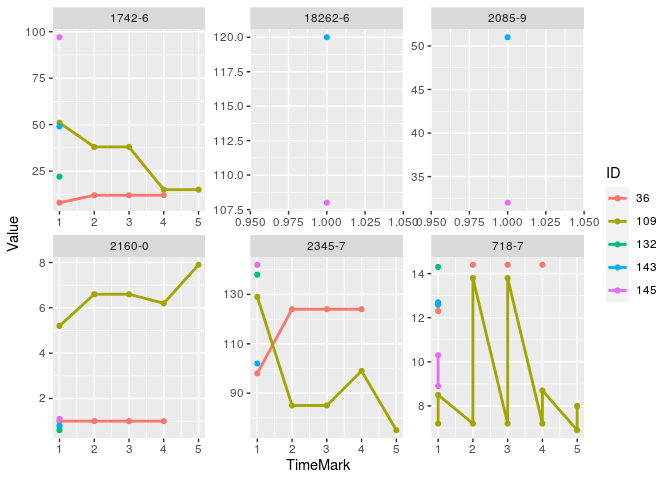
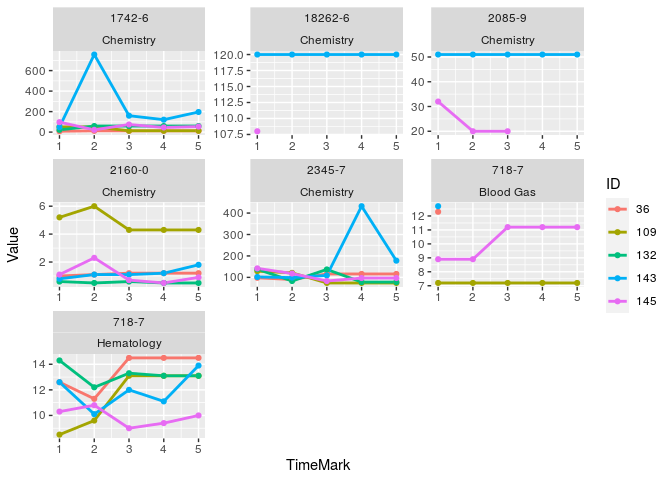
Update plot

diff --git a/README.md b/README.md
@@ -181,24 +181,24 @@ timeSeriesData <- getTimeSeriesLab(labData = loincSample,
                                    dateColName = CHARTTIME,
                                    valueColName = VALUENUM,
                                    indexDate = first,
-                                   gapDate = 360,
+                                   gapDate = 30,
                                    completeWindows = TRUE)
 head(timeSeriesData)
 ```
 
-    ##    ID  LOINC  CATEGORY Window Count Max  Min      Mean Nearest firstRecord
-    ## 1: 36 1742-6 Chemistry      1     2  12  8.0 10.000000       8  2131-04-30
-    ## 2: 36 1742-6 Chemistry      2    NA  NA   NA        NA      NA        <NA>
-    ## 3: 36 1742-6 Chemistry      3    NA  NA   NA        NA      NA        <NA>
-    ## 4: 36 1742-6 Chemistry      4     1  12 12.0 12.000000      12  2134-05-14
-    ## 5: 36 2160-0 Chemistry      1    28   2  0.7  1.217857       1  2131-04-30
-    ## 6: 36 2160-0 Chemistry      2    NA  NA   NA        NA      NA        <NA>
+    ##    ID  LOINC  CATEGORY Window Count Max Min Mean Nearest firstRecord
+    ## 1: 36 1742-6 Chemistry      1     2  12   8   10       8  2131-04-30
+    ## 2: 36 1742-6 Chemistry      2    NA  NA  NA   NA      NA        <NA>
+    ## 3: 36 1742-6 Chemistry      3    NA  NA  NA   NA      NA        <NA>
+    ## 4: 36 1742-6 Chemistry      4    NA  NA  NA   NA      NA        <NA>
+    ## 5: 36 1742-6 Chemistry      5    NA  NA  NA   NA      NA        <NA>
+    ## 6: 36 1742-6 Chemistry      6    NA  NA  NA   NA      NA        <NA>
     ##    lastRecode
     ## 1: 2131-05-17
     ## 2:       <NA>
     ## 3:       <NA>
-    ## 4: 2134-05-14
-    ## 5: 2132-02-08
+    ## 4:       <NA>
+    ## 5:       <NA>
     ## 6:       <NA>
 
 ``` r
@@ -211,18 +211,18 @@ fullTimeSeriesData <- imputeTimeSeriesLab(labData = timeSeriesData,
 head(fullTimeSeriesData)
 ```
 
-    ##    ID  LOINC  CATEGORY Window       Mean Nearest
-    ## 1: 36 1742-6 Chemistry      1 10.0000000       8
-    ## 2: 36 1742-6 Chemistry      2 12.0000000      12
-    ## 3: 36 1742-6 Chemistry      3 12.0000000      12
-    ## 4: 36 1742-6 Chemistry      4 12.0000000      12
-    ## 5: 36 2160-0 Chemistry      1  1.2178571       1
-    ## 6: 36 2160-0 Chemistry      2  0.8888889       1
+    ##    ID  LOINC  CATEGORY Window Mean Nearest
+    ## 1: 36 1742-6 Chemistry      1   10       8
+    ## 2: 36 1742-6 Chemistry      2   12      12
+    ## 3: 36 1742-6 Chemistry      3   12      12
+    ## 4: 36 1742-6 Chemistry      4   12      12
+    ## 5: 36 1742-6 Chemistry      5   12      12
+    ## 6: 36 1742-6 Chemistry      6   12      12
 
 ``` r
 timeSeriesPlot <- plotTimeSeriesLab(labData = fullTimeSeriesData, 
                                     idColName = ID, 
-                                    labItemColName = LOINC, 
+                                    labItemColName = LOINC + CATEGORY, 
                                     timeMarkColName = Window, 
                                     valueColName = Nearest, 
                                     timeStart = 1, 
@@ -243,20 +243,20 @@ wideTimeSeriesData <- wideTimeSeriesLab(labData = fullTimeSeriesData,
 head(wideTimeSeriesData)
 ```
 
-    ##     ID Window 1742-6_Chemistry 18262-6_Chemistry 2085-9_Chemistry
-    ## 1:  36      1                8                NA               NA
-    ## 2:  36      2               12                NA               NA
-    ## 3:  36      3               12                NA               NA
-    ## 4:  36      4               12                NA               NA
-    ## 5: 109      1               51                NA               NA
-    ## 6: 109      2               38                NA               NA
+    ##    ID Window 1742-6_Chemistry 18262-6_Chemistry 2085-9_Chemistry
+    ## 1: 36      1                8                NA               NA
+    ## 2: 36      2               12                NA               NA
+    ## 3: 36      3               12                NA               NA
+    ## 4: 36      4               12                NA               NA
+    ## 5: 36      5               12                NA               NA
+    ## 6: 36      6               12                NA               NA
     ##    2160-0_Chemistry 2345-7_Chemistry 718-7_Blood Gas 718-7_Hematology
     ## 1:              1.0               98            12.3             12.6
-    ## 2:              1.0              124              NA             14.4
-    ## 3:              1.0              124              NA             14.4
-    ## 4:              1.0              124              NA             14.4
-    ## 5:              5.2              129             7.2              8.5
-    ## 6:              6.6               85             7.2             13.8
+    ## 2:              1.1               90              NA             11.3
+    ## 3:              1.2              116              NA             14.5
+    ## 4:              1.2              116              NA             14.5
+    ## 5:              1.2              116              NA             14.5
+    ## 6:              1.2              116              NA             14.5
 
 <!-- ## Visulization -->
 
